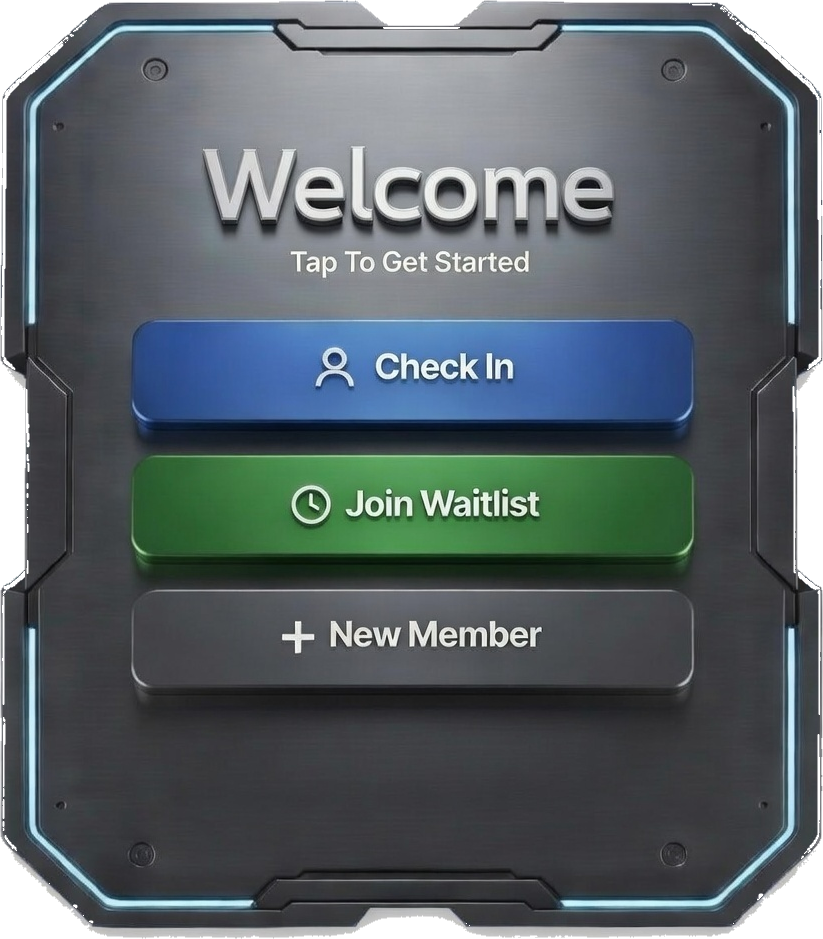
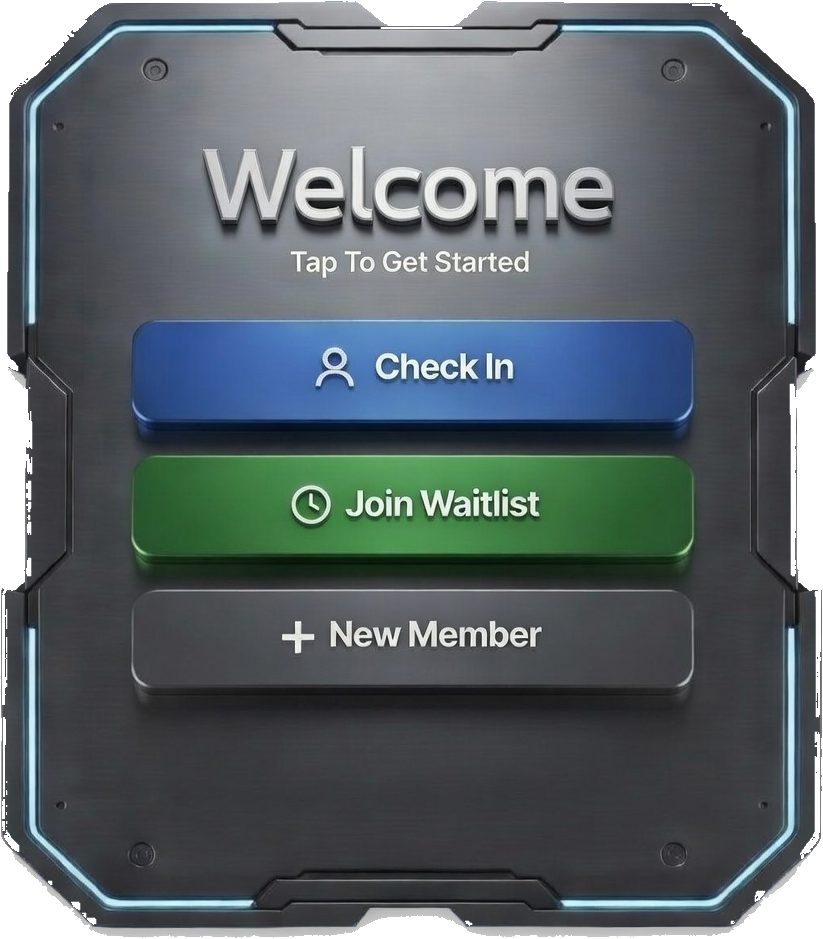
feat: kiosk 3-option check-in (scan/name/phone), conditional membership popup
- Check-in now presents 3 options: Scan Card, Search By Name, Search By Phone
- Each option has its own check-in screen with search + check-in button
- Non-members (not on waitlist) still check in but see 'see staff' popup
- Members on waitlist check in silently with game list shown
- Cleaned phone field: removed optional label and placeholder
- Added 'Not A Member? Tap Here' link on check-in picker

diff --git a/pages/commander/kiosk.js b/pages/commander/kiosk.js
@@ -42,7 +42,8 @@ function liveFormatPhone(value) {
 export default function MembershipKiosk() {
   const router = useRouter();
   const [mode, setMode] = useState('home');
-  // home | scan | scan_join | join_name | join_game | success
+  // home | checkin_pick | checkin_scan | checkin_name | checkin_phone
+  // | scan_join | join_name | join_game | success
   const [phone, setPhone] = useState('');
   const [name, setName] = useState('');
   const [searchResults, setSearchResults] = useState([]);
@@ -66,6 +67,13 @@ export default function MembershipKiosk() {
   const [scanQR, setScanQR] = useState('');
   const [scanError, setScanError] = useState('');
 
+  // Check-in context: track whether player was found on waitlist
+  const [checkinIsWaitlisted, setCheckinIsWaitlisted] = useState(false);
+
+  // Check-in search fields for name/phone modes
+  const [checkinName, setCheckinName] = useState('');
+  const [checkinPhone, setCheckinPhone] = useState('');
+
   // Staff session header for API calls
   const [staffHeader, setStaffHeader] = useState('');
 
@@ -87,6 +95,7 @@ export default function MembershipKiosk() {
     setSuccessMsg(''); setShowNewMemberPopup(false);
     setJoinName(''); setJoinPhone(''); setSelectedGames([]);
     setWaitlistMatches([]); setScanQR(''); setScanError('');
+    setCheckinIsWaitlisted(false); setCheckinName(''); setCheckinPhone('');
   };
 
   // Auto-reset after inactivity on success
@@ -191,6 +200,7 @@ export default function MembershipKiosk() {
     if (!scanQR.trim() || !venueId) return;
     setSubmitting(true);
     setScanError('');
+    let foundOnWaitlist = false;
     try {
       const res = await fetch('/api/commander/members/scan', {
         method: 'POST',
@@ -223,6 +233,7 @@ export default function MembershipKiosk() {
             if (wName && memberName && wName === memberName) return true;
             return false;
           });
+          if (matchingEntries.length > 0) foundOnWaitlist = true;
           for (const entry of matchingEntries) {
             await fetch(`/api/commander/waitlist/${entry.id}`, {
               method: 'PATCH',
@@ -233,11 +244,108 @@ export default function MembershipKiosk() {
         }
       } catch { /* non-critical */ }
 
+      setCheckinIsWaitlisted(foundOnWaitlist);
       setSuccessMsg(`✅ ${titleCase(member.first_name || member.name || 'Player')} — Checked In!`);
       setMode('success');
     } catch (err) {
       console.error(err);
       setScanError('Scan failed. Please try again.');
+    }
+    finally { setSubmitting(false); }
+  };
+
+  // ── CHECK IN BY NAME: Search waitlist by name and check in ──
+  const handleNameCheckIn = async () => {
+    const q = checkinName.trim();
+    if (!q || q.length < 2 || !venueId) return;
+    setSubmitting(true);
+    setScanError('');
+    try {
+      const res = await fetch(`/api/commander/waitlist?venue_id=${venueId}`, {
+        headers: { 'x-staff-session': staffHeader }
+      });
+      const json = await res.json();
+      if (json.success && json.data) {
+        const qLower = q.toLowerCase();
+        const matches = json.data.filter(entry =>
+          entry.player_name?.toLowerCase().includes(qLower) &&
+          entry.status !== 'seated' && !entry.checked_in_at
+        );
+        if (matches.length > 0) {
+          // Check in all matching entries
+          for (const entry of matches) {
+            await fetch(`/api/commander/waitlist/${entry.id}`, {
+              method: 'PATCH',
+              headers: { 'Content-Type': 'application/json', 'x-staff-session': staffHeader },
+              body: JSON.stringify({ checked_in_at: new Date().toISOString() })
+            });
+          }
+          const gameList = matches.map(e => `${e.stakes} ${e.game_type}`).join(', ');
+          setCheckinIsWaitlisted(true);
+          setSuccessMsg(`✅ ${titleCase(matches[0]?.player_name || q)} — Checked In!\n${gameList}`);
+          setMode('success');
+        } else {
+          // Not on waitlist — still check in but show non-member popup
+          setCheckinIsWaitlisted(false);
+          setSuccessMsg(`✅ ${titleCase(q)} — Checked In!`);
+          setMode('success');
+        }
+      } else {
+        // API failed — still allow check-in
+        setCheckinIsWaitlisted(false);
+        setSuccessMsg(`✅ ${titleCase(q)} — Checked In!`);
+        setMode('success');
+      }
+    } catch (err) {
+      console.error(err);
+      setScanError('Search failed. Please try again.');
+    }
+    finally { setSubmitting(false); }
+  };
+
+  // ── CHECK IN BY PHONE: Search waitlist by phone and check in ──
+  const handlePhoneCheckIn = async () => {
+    const q = checkinPhone.replace(/\D/g, '');
+    if (!q || q.length < 7 || !venueId) return;
+    setSubmitting(true);
+    setScanError('');
+    try {
+      const res = await fetch(`/api/commander/waitlist?venue_id=${venueId}`, {
+        headers: { 'x-staff-session': staffHeader }
+      });
+      const json = await res.json();
+      if (json.success && json.data) {
+        const matches = json.data.filter(entry => {
+          const entryPhone = (entry.player_phone || '').replace(/\D/g, '');
+          return entryPhone && entryPhone.slice(-10) === q.slice(-10) &&
+            entry.status !== 'seated' && !entry.checked_in_at;
+        });
+        if (matches.length > 0) {
+          for (const entry of matches) {
+            await fetch(`/api/commander/waitlist/${entry.id}`, {
+              method: 'PATCH',
+              headers: { 'Content-Type': 'application/json', 'x-staff-session': staffHeader },
+              body: JSON.stringify({ checked_in_at: new Date().toISOString() })
+            });
+          }
+          const gameList = matches.map(e => `${e.stakes} ${e.game_type}`).join(', ');
+          setCheckinIsWaitlisted(true);
+          setSuccessMsg(`✅ ${titleCase(matches[0]?.player_name || 'Player')} — Checked In!\n${gameList}`);
+          setMode('success');
+        } else {
+          // Not on waitlist — still check in but show non-member popup
+          setCheckinIsWaitlisted(false);
+          setSuccessMsg(`✅ ${formatPhone(checkinPhone)} — Checked In!`);
+          setMode('success');
+        }
+      } else {
+        setCheckinIsWaitlisted(false);
+        setSuccessMsg(`✅ ${formatPhone(checkinPhone)} — Checked In!`);
+        setMode('success');
+      }
+    } catch (err) {
+      console.error(err);
+      setScanError('Search failed. Please try again.');
     }
     finally { setSubmitting(false); }
   };
@@ -333,7 +441,7 @@ export default function MembershipKiosk() {
             <div style={{ position: 'relative', maxWidth: '90%', maxHeight: '90%', display: 'flex' }}>
               {/* Background Image — PNG with transparent background */}
               <img
-                src="/images/commander/kiosk-welcome.png?v=4"
+                src="/images/commander/kiosk-welcome.png?v=5"
                 alt="Welcome Kiosk"
                 style={{
                   width: '100%',
@@ -347,10 +455,9 @@ export default function MembershipKiosk() {
               {/* Invisible Hitboxes — positioned relative to the image */}
               {/* Percentages are relative to image dimensions (829x946 after trim) */}
 
-              {/* Check In — Blue button */}
-              {/* Image: y~378-448/946 ≈ 40%-47.4%, centered, width ~65% */}
+              {/* Check In — opens 3-option picker */}
               <button
-                onClick={() => { haptic(); setScanQR(''); setScanError(''); setMode('scan'); }}
+                onClick={() => { haptic(); setMode('checkin_pick'); }}
                 style={{
                   position: 'absolute',
                   top: '39.5%',
@@ -550,8 +657,56 @@ export default function MembershipKiosk() {
               ← Back
             </button>
 
-            {/* ===== SCAN CARD MODE (CHECK-IN) ===== */}
-            {mode === 'scan' && (
+            {/* ===== CHECK-IN: 3-Option Picker ===== */}
+            {mode === 'checkin_pick' && (
+              <div className="w-full max-w-md space-y-5">
+                <div className="text-center mb-2">
+                  <div className="w-20 h-20 rounded-full bg-[#1877F2]/20 flex items-center justify-center mx-auto mb-4">
+                    <UserCheck className="w-10 h-10 text-[#1877F2]" />
+                  </div>
+                  <h2 className="text-3xl font-bold text-white mb-2">Check In</h2>
+                  <p className="text-[#B0B3B8] text-base">Choose how you'd like to check in</p>
+                </div>
+
+                {/* Option 1: Scan Card */}
+                <button
+                  onClick={() => { haptic(); setScanQR(''); setScanError(''); setMode('checkin_scan'); }}
+                  className="w-full py-6 rounded-2xl bg-[#242526] border-2 border-[#1877F2] text-[#E4E6EB] text-xl font-semibold active:bg-[#3A3B3C] flex items-center justify-center gap-4"
+                >
+                  <svg className="w-8 h-8 text-[#1877F2]" fill="none" stroke="currentColor" viewBox="0 0 24 24"><path strokeLinecap="round" strokeLinejoin="round" strokeWidth={2} d="M12 4v1m6 11h2m-6 0h-2v4m0-11v3m0 0h.01M12 12h4.01M16 20h4M4 12h4m12 0h.01M5 8h2a1 1 0 001-1V5a1 1 0 00-1-1H5a1 1 0 00-1 1v2a1 1 0 001 1zm12 0h2a1 1 0 001-1V5a1 1 0 00-1-1h-2a1 1 0 00-1 1v2a1 1 0 001 1zM5 20h2a1 1 0 001-1v-2a1 1 0 00-1-1H5a1 1 0 00-1 1v2a1 1 0 001 1z" /></svg>
+                  Scan Player Card
+                </button>
+
+                {/* Option 2: Search by Name */}
+                <button
+                  onClick={() => { haptic(); setCheckinName(''); setScanError(''); setMode('checkin_name'); }}
+                  className="w-full py-6 rounded-2xl bg-[#242526] border-2 border-[#1877F2] text-[#E4E6EB] text-xl font-semibold active:bg-[#3A3B3C] flex items-center justify-center gap-4"
+                >
+                  <Search className="w-8 h-8 text-[#1877F2]" />
+                  Search By Name
+                </button>
+
+                {/* Option 3: Search by Phone */}
+                <button
+                  onClick={() => { haptic(); setCheckinPhone(''); setScanError(''); setMode('checkin_phone'); }}
+                  className="w-full py-6 rounded-2xl bg-[#242526] border-2 border-[#1877F2] text-[#E4E6EB] text-xl font-semibold active:bg-[#3A3B3C] flex items-center justify-center gap-4"
+                >
+                  <Phone className="w-8 h-8 text-[#1877F2]" />
+                  Search By Phone
+                </button>
+
+                {/* Not a member yet */}
+                <div className="text-center pt-2">
+                  <button onClick={() => { haptic(); setShowNewMemberPopup(true); }}
+                    className="text-[#B0B3B8] text-base font-medium underline">
+                    Not A Member? Tap Here
+                  </button>
+                </div>
+              </div>
+            )}
+
+            {/* ===== CHECK-IN: Scan Card ===== */}
+            {mode === 'checkin_scan' && (
               <div className="w-full max-w-md space-y-4">
                 <div className="text-center mb-4">
                   <div className="w-20 h-20 rounded-full bg-[#1877F2]/20 flex items-center justify-center mx-auto mb-4">
@@ -584,9 +739,94 @@ export default function MembershipKiosk() {
                 )}
 
                 <div className="text-center pt-2">
-                  <button onClick={() => { fetchGames(); setMode('join_name'); }}
+                  <button onClick={() => setMode('checkin_pick')}
                     className="text-[#1877F2] text-sm font-medium underline">
-                    Search By Name Instead
+                    ← Other Check-In Options
+                  </button>
+                </div>
+              </div>
+            )}
+
+            {/* ===== CHECK-IN: Search by Name ===== */}
+            {mode === 'checkin_name' && (
+              <div className="w-full max-w-md space-y-4">
+                <div className="text-center mb-4">
+                  <div className="w-20 h-20 rounded-full bg-[#1877F2]/20 flex items-center justify-center mx-auto mb-4">
+                    <Search className="w-10 h-10 text-[#1877F2]" />
+                  </div>
+                  <h2 className="text-2xl font-bold text-white mb-2">Check In By Name</h2>
+                  <p className="text-[#B0B3B8] text-sm">Enter your first and last name</p>
+                </div>
+
+                <input
+                  type="text"
+                  value={checkinName}
+                  onChange={e => setCheckinName(e.target.value)}
+                  onKeyDown={e => { if (e.key === 'Enter') handleNameCheckIn(); }}
+                  placeholder="First and Last Name"
+                  autoFocus
+                  className="w-full bg-[#3A3B3C] border-2 border-[#1877F2]/50 rounded-xl px-5 py-5 text-white text-xl text-center placeholder-[#B0B3B8]/50 focus:outline-none focus:border-[#1877F2]"
+                />
+
+                <button onClick={handleNameCheckIn} disabled={!checkinName.trim() || checkinName.trim().length < 2 || submitting}
+                  className="w-full py-5 rounded-2xl bg-[#1877F2] text-white text-xl font-semibold active:bg-[#1565D8] disabled:opacity-50 flex items-center justify-center gap-2">
+                  {submitting ? <Loader2 className="w-5 h-5 animate-spin" /> : <UserCheck className="w-6 h-6" />}
+                  Check In
+                </button>
+
+                {scanError && (
+                  <div className="bg-[#EF4444]/10 border border-[#EF4444]/30 rounded-xl p-4 text-center">
+                    <p className="text-[#EF4444] text-sm font-medium">{scanError}</p>
+                  </div>
+                )}
+
+                <div className="text-center pt-2">
+                  <button onClick={() => setMode('checkin_pick')}
+                    className="text-[#1877F2] text-sm font-medium underline">
+                    ← Other Check-In Options
+                  </button>
+                </div>
+              </div>
+            )}
+
+            {/* ===== CHECK-IN: Search by Phone ===== */}
+            {mode === 'checkin_phone' && (
+              <div className="w-full max-w-md space-y-4">
+                <div className="text-center mb-4">
+                  <div className="w-20 h-20 rounded-full bg-[#1877F2]/20 flex items-center justify-center mx-auto mb-4">
+                    <Phone className="w-10 h-10 text-[#1877F2]" />
+                  </div>
+                  <h2 className="text-2xl font-bold text-white mb-2">Check In By Phone</h2>
+                  <p className="text-[#B0B3B8] text-sm">Enter the phone number on your account</p>
+                </div>
+
+                <input
+                  type="tel"
+                  inputMode="numeric"
+                  value={checkinPhone}
+                  onChange={e => setCheckinPhone(liveFormatPhone(e.target.value))}
+                  onKeyDown={e => { if (e.key === 'Enter') handlePhoneCheckIn(); }}
+                  placeholder="555-123-4567"
+                  autoFocus
+                  className="w-full bg-[#3A3B3C] border-2 border-[#1877F2]/50 rounded-xl px-5 py-5 text-white text-xl text-center placeholder-[#B0B3B8]/50 focus:outline-none focus:border-[#1877F2]"
+                />
+
+                <button onClick={handlePhoneCheckIn} disabled={checkinPhone.replace(/\D/g, '').length < 7 || submitting}
+                  className="w-full py-5 rounded-2xl bg-[#1877F2] text-white text-xl font-semibold active:bg-[#1565D8] disabled:opacity-50 flex items-center justify-center gap-2">
+                  {submitting ? <Loader2 className="w-5 h-5 animate-spin" /> : <UserCheck className="w-6 h-6" />}
+                  Check In
+                </button>
+
+                {scanError && (
+                  <div className="bg-[#EF4444]/10 border border-[#EF4444]/30 rounded-xl p-4 text-center">
+                    <p className="text-[#EF4444] text-sm font-medium">{scanError}</p>
+                  </div>
+                )}
+
+                <div className="text-center pt-2">
+                  <button onClick={() => setMode('checkin_pick')}
+                    className="text-[#1877F2] text-sm font-medium underline">
+                    ← Other Check-In Options
                   </button>
                 </div>
               </div>
@@ -661,9 +901,8 @@ export default function MembershipKiosk() {
                 </div>
 
                 <div>
-                  <label className="text-sm text-[#B0B3B8] mb-1 block">Phone (optional — for text alerts)</label>
+                  <label className="text-sm text-[#B0B3B8] mb-1 block">Phone</label>
                   <input type="tel" inputMode="numeric" value={joinPhone} onChange={e => setJoinPhone(liveFormatPhone(e.target.value))}
-                    placeholder="(555) 123-4567"
                     className="w-full bg-[#3A3B3C] border border-[#4A4B4C] rounded-xl px-5 py-4 text-white text-xl text-center placeholder-[#B0B3B8]/50 focus:outline-none focus:border-[#31A24C]" />
                 </div>
 
@@ -730,23 +969,24 @@ export default function MembershipKiosk() {
                 </div>
                 <h2 className="text-2xl font-bold text-white whitespace-pre-line">{successMsg}</h2>
 
-                {/* Membership reminder */}
-                <div style={{
-                  background: 'linear-gradient(145deg, #2a2d30, #1a1c1f)',
-                  border: '1px solid rgba(245,158,11,0.4)',
-                  borderRadius: '16px',
-                  padding: '20px 24px',
-                  marginTop: '16px'
-                }}>
-                  <div className="flex items-center gap-3 mb-2">
-                    <AlertTriangle className="w-6 h-6 text-[#F59E0B] flex-shrink-0" />
-                    <p className="text-lg font-semibold text-[#F59E0B]">Membership Required</p>
+                {/* Membership reminder — only shown when player was NOT found on waitlist */}
+                {!checkinIsWaitlisted && (
+                  <div style={{
+                    background: 'linear-gradient(145deg, #2a2d30, #1a1c1f)',
+                    border: '1px solid rgba(245,158,11,0.4)',
+                    borderRadius: '16px',
+                    padding: '20px 24px',
+                    marginTop: '16px'
+                  }}>
+                    <div className="flex items-center gap-3 mb-2">
+                      <AlertTriangle className="w-6 h-6 text-[#F59E0B] flex-shrink-0" />
+                      <p className="text-lg font-semibold text-[#F59E0B]">Not A Member Yet?</p>
+                    </div>
+                    <p className="text-[#E4E6EB] text-base leading-relaxed">
+                      Please see <span className="text-[#1877F2] font-bold">{venueName || 'venue'}</span> staff to sign up for membership.
+                    </p>
                   </div>
-                  <p className="text-[#E4E6EB] text-base leading-relaxed">
-                    You are checked in, but still need a membership to play.
-                    Please see <span className="text-[#1877F2] font-bold">{venueName || 'venue'}</span> staff to sign up.
-                  </p>
-                </div>
+                )}
 
                 <p className="text-[#B0B3B8] text-sm">This Screen Will Reset Automatically</p>
                 <button onClick={reset}
